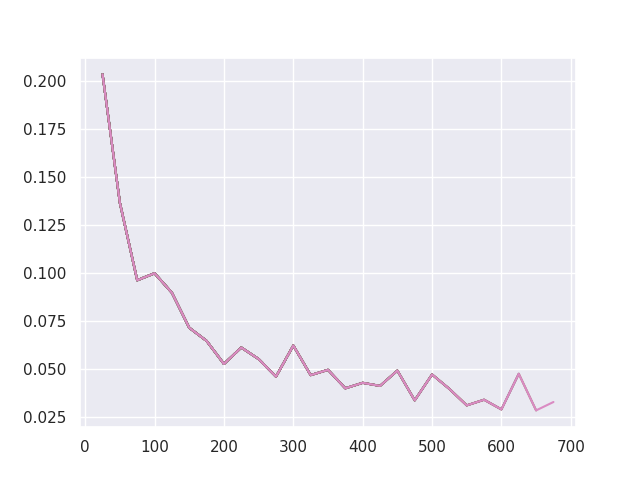
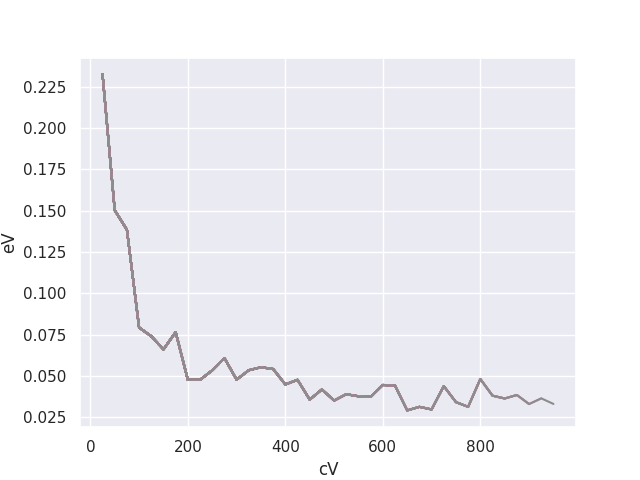
ee546hw3update

diff --git a/notes/ee546-mathematics-of-high-dimensional-data/hw3/q2/q2.py b/notes/ee546-mathematics-of-high-dimensional-data/hw3/q2/q2.py
@@ -76,7 +76,7 @@ def approximate():
 
 
     # for V
-    pbar = tqdm( range(25,700,25), colour="GREEN")
+    pbar = tqdm( range(25,975,25), colour="GREEN")
     for c in pbar:
         avg = 0
         for _ in tqdm(range(ntrials), colour="RED", leave=False):
@@ -91,7 +91,10 @@ def approximate():
 
         pbar.set_postfix({"cV":c,"eV":e})
         sns.lineplot(x=res.cV, y=res.eV)
+        plt.xlabel("cV")
+        plt.ylabel("eV")
         plt.savefig("v.png")
+        
 
 
 
@@ -112,6 +115,8 @@ def approximate():
         pbar.set_postfix({"cU":c,"eU":e})
         plt.clf()
         sns.lineplot(x=res.cU, y=res.eU)
+        plt.xlabel("cU")
+        plt.ylabel("eU")
         plt.savefig("u.png")
 
         
